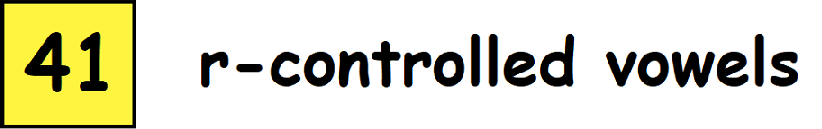
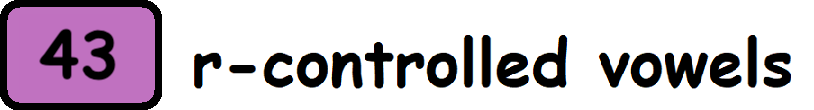
updated 3rd grade screens with new designs and added ion phoneme and updated tion phoneme in JSON

diff --git a/src/app/pages/third-categories/third-consonants-details/third-consonants-details.component.css b/src/app/pages/third-categories/third-consonants-details/third-consonants-details.component.css
@@ -1,53 +1,92 @@
 #main-body {
-    width: 169.7vh;
-    height: 0vh;
-    padding-left: 40vh;
-    position: relative;
-  }
-  
-  #background {
-      background-color: #FFFFFF !important;
-      background: url('../../../../assets/img/backgrounds/third_consonants_details.png') no-repeat scroll transparent;
-      background-position: 18vh;
-      background-size: 183vh;
-  }
-  
-  /* Second Categories */
-  #blend-begin {
-      background: url('../../../../assets/img/buttons/third_blend_begin.png') no-repeat scroll transparent;
-      background-size: 80vh;
-      margin-top: 4vh;
-      cursor: pointer;
-      width: 79vh;
-  }
-  #blend-end {
+  width: 169.7vh;
+  height: 0vh;
+  padding-left: 40vh;
+  position: relative;
+}
+
+#background {
+    background-color: #FFFFFF !important;
+    background: url('../../../../assets/img/backgrounds/second_consonants_details.png') no-repeat scroll transparent;
+    background-position: 19vh 2vh;
+    background-size: 169vh;
+}
+
+/* Phonics Categories */
+#sound-begin {
+    background: url('../../../../assets/img/buttons/third_sound_begin.png') no-repeat scroll transparent;
+    background-size: 65vh;
+    margin: 17.5vh 0vh 0vh -6vh;
+    height: 13.5vh;
+    cursor: pointer;
+    width: 63vh;
+}
+#sound-end {
+    background: url('../../../../assets/img/buttons/third_sound_end.png') no-repeat scroll transparent;
+    background-size: 55vh;
+    margin: 17.5vh 0vh 0vh 33vh;
+    cursor: pointer;
+    height: 13.5vh;
+    width: 54vh;
+}
+#cg {
+    background: url('../../../../assets/img/buttons/third_cg.png') no-repeat scroll transparent;
+    background-size: 80vh;
+    cursor: pointer;
+    width: 78vh;
+}
+#blend-begin {
+    background: url('../../../../assets/img/buttons/third_blend_begin.png') no-repeat scroll transparent;
+    background-size: 61vh;
+    cursor: pointer;
+    width: 59vh;
+}
+#blend-end {
     background: url('../../../../assets/img/buttons/third_blend_end.png') no-repeat scroll transparent;
-    background-size: 71vh;
-    width: 69vh;
+    background-size: 50vh;
+    margin-left: 37vh;
     cursor: pointer;
-  }
-  #digraph-begin {
-    background: url('../../../../assets/img/buttons/third_digraph_begin.png') no-repeat scroll transparent;
-    background-size: 104vh;
-    margin-left: 17vh;
+    width: 49vh;
+}
+#blend-three {
+    background: url('../../../../assets/img/buttons/third_blend_3.png') no-repeat scroll transparent;
+    background-size: 60vh;
     cursor: pointer;
-    width: 101vh;
-  }
-  #digraph-end {
-    background: url('../../../../assets/img/buttons/third_digraph_end.png') no-repeat scroll transparent;
-    background-size: 95vh;
-    cursor: pointer;
-    width: 92vh;
-  }
+    width: 58vh;
+}
+#silent {
+  background: url('../../../../assets/img/buttons/third_silent.png') no-repeat scroll transparent;
+  background-size: 29vh;
+  margin-left: 38vh;
+  cursor: pointer;
+  width: 28vh;
+}
+#digraph-begin {
+  background: url('../../../../assets/img/buttons/third_digraph_begin.png') no-repeat scroll transparent;
+  background-size: 91.5vh;
+  cursor: pointer;
+  width: 79vh;
+}
+#digraph-end {
+  background: url('../../../../assets/img/buttons/third_digraph_end.png') no-repeat scroll transparent;
+  background-size: 73vh;
+  display: block;
+  cursor: pointer;
+  width: 71vh;
+}
 
-  .column {
-    padding-top: 12vh;
-  }
+.category_button {
+    height: 10vh;
+    margin: 1.5vh 0vh 0vh -5vh;
+    border: none;
+}
 
-  .category_button {
-      margin: 5vh 0vh 0vh 16vh;
-      height: 14.5vh;
-      border: none;
-      display: inherit;
-  }
-  
+.column {
+    padding-top: 2.5vh;
+}
+/* Clear floats after the columns */
+.column:after {
+  content: "";
+  display: table;
+  clear: both;
+}

diff --git a/src/app/pages/third-categories/third-vowels-details/third-vowels-details.component.css b/src/app/pages/third-categories/third-vowels-details/third-vowels-details.component.css
@@ -8,62 +8,64 @@
 #background {
     background-color: #FFFFFF !important;
     background: url('../../../../assets/img/backgrounds/third_vowels_details.png') no-repeat scroll transparent;
-    background-position: 10vh;
-    background-size: 200vh;
+    background-position: 14vh 2vh;
+    background-size: 173vh;
 }
 
 /* Phonics Categories */
 #short {
     background: url('../../../../assets/img/buttons/third_vowels_short.png') no-repeat scroll transparent;
-    background-size: 38.5vh;
-    margin-top: 18vh;
+    background-size: 34vh;
+    margin-top: 17vh;
     cursor: pointer;
-    width: 36vh;
+    width: 32vh;
 }
 #long {
     background: url('../../../../assets/img/buttons/third_vowels_long.png') no-repeat scroll transparent;
+    background-size: 30vh;
+    margin: 17vh 0vh 0vh 7vh;
+    cursor: pointer;
+    width: 28vh;
+}
+#schwa {
+    background: url('../../../../assets/img/buttons/third_vowels_schwa.png') no-repeat scroll transparent;
+    background-size: 41vh;
+    margin-left: 3vh;
+    cursor: pointer;
+    width: 39vh;
+}
+#pairs {
+    background: url('../../../../assets/img/buttons/third_vowels_pairs.png') no-repeat scroll transparent;
     background-size: 33vh;
     cursor: pointer;
     width: 31vh;
 }
-#schwa {
-    background: url('../../../../assets/img/buttons/third_vowels_schwa.png') no-repeat scroll transparent;
-    background-size: 43vh;
-    cursor: pointer;
-    width: 41vh;
-}
-#pairs {
-    background: url('../../../../assets/img/buttons/third_vowels_pairs.png') no-repeat scroll transparent;
-    background-size: 37vh;
-    margin: 18vh 0vh 0vh 8.5vh;
-    cursor: pointer;
-    width: 35vh;
-}
 #y {
     background: url('../../../../assets/img/buttons/third_vowels_y.png') no-repeat scroll transparent;
-    background-size: 49vh;
+    background-size: 55.5vh;
+    margin-left: 8vh;
     cursor: pointer;
-    margin-left: 13.5vh;
-    width: 48vh;
+    width: 54vh;
 }
 #e {
     background: url('../../../../assets/img/buttons/third_vowels_e.png') no-repeat scroll transparent;
     background-size: 44vh;
+    margin-left: 62vh;
     cursor: pointer;
     width: 43vh;
-    margin-left: 4vh;
+}
+#r {
+    background: url('../../../../assets/img/buttons/third_vowels_r.png') no-repeat scroll transparent;
+    background-size: 38vh;
+    cursor: pointer;
+    width: 36vh;
 }
 
 .category_button {
     width: 39vh;
     height: 15.7vh;
-    margin: 5vh 0vh 0vh 9vh;
+    margin: 4vh 0vh 0vh 23vh;
     border: none;
-}
-
-.row {
-  float: left;
-  margin-left: 3vh;
 }
 
 .column {

diff --git a/src/app/pages/third-categories/third-consonants-details/third-consonants-details.component.html b/src/app/pages/third-categories/third-consonants-details/third-consonants-details.component.html
@@ -1,10 +1,21 @@
 <div id='background'>
     <div id='main-body'>
         <div class='column'>
+            <div class='row'>
+                <button mat-icon-button class='category_button' id='sound-begin' (mouseenter)='playAudio($event)' [routerLink]="['/list-select']" [queryParams]="{'grade' : '3rd', 'list': 'C-begin'}"></button>
+                <button mat-icon-button class='category_button' id='sound-end' (mouseenter)='playAudio($event)' [routerLink]='["/list-select"]' [queryParams]="{'grade' : '3rd', 'list': 'C-end'}"></button>
+            </div>
+            <button mat-icon-button class='category_button' id='cg' (mouseenter)='playAudio($event)' [routerLink]='["/list-select"]' [queryParams]="{'grade' : '3rd', 'list': 'CG'}"></button>
+            <div class='row'>
                 <button mat-icon-button class='category_button' id='blend-begin' (mouseenter)='playAudio($event)' [routerLink]="['/list-select']" [queryParams]="{'grade' : '3rd', 'list': 'CB-begin'}"></button>
                 <button mat-icon-button class='category_button' id='blend-end' (mouseenter)='playAudio($event)' [routerLink]='["/list-select"]' [queryParams]="{'grade' : '3rd', 'list': 'CB-end'}"></button>
-                <button mat-icon-button class='category_button' id='digraph-begin' (mouseenter)='playAudio($event)' [routerLink]='["/list-select"]' [queryParams]="{'grade' : '3rd', 'list': 'CD-begin'}"></button>
-                <button mat-icon-button class='category_button' id='digraph-end' (mouseenter)='playAudio($event)' [routerLink]='["/list-select"]' [queryParams]="{'grade' : '3rd', 'list': 'CD-end'}"></button>
+            </div>
+            <div class='row'>
+                <button mat-icon-button class='category_button' id='blend-three' (mouseenter)='playAudio($event)' [routerLink]='["/list-select"]' [queryParams]="{'grade' : '3rd', 'list': 'CB-3'}"></button>
+                <button mat-icon-button class='category_button' id='silent' (mouseenter)='playAudio($event)' [routerLink]='["/list-select"]' [queryParams]="{'grade' : '3rd', 'list': 'V-long'}"></button>
+            </div>
+            <button mat-icon-button class='category_button' id='digraph-begin' (mouseenter)='playAudio($event)' [routerLink]='["/list-select"]' [queryParams]="{'grade' : '3rd', 'list': 'CD-begin'}"></button>
+            <button mat-icon-button class='category_button' id='digraph-end' (mouseenter)='playAudio($event)' [routerLink]='["/list-select"]' [queryParams]="{'grade' : '3rd', 'list': 'CD-end'}"></button>
         </div>
     </div>
 

diff --git a/src/app/pages/third-categories/third-vowels-details/third-vowels-details.component.html b/src/app/pages/third-categories/third-vowels-details/third-vowels-details.component.html
@@ -3,16 +3,17 @@
         <div class='column'>
             <div class='row'>
                 <button mat-icon-button class='category_button' id='short' (mouseenter)='playAudio($event)' [routerLink]="['/list-select']" [queryParams]="{'grade' : '3rd', 'list': 'V-short'}"></button>
-                <button mat-icon-button class='category_button' id='pairs' (mouseenter)='playAudio($event)' [routerLink]='["/list-select"]' [queryParams]="{'grade' : '3rd', 'list': 'VP'}"></button>
+                <button mat-icon-button class='category_button' id='long' (mouseenter)='playAudio($event)' [routerLink]='["/list-select"]' [queryParams]="{'grade' : '3rd', 'list': 'V-long'}"></button>
             </div>
             <div class='row'>
-                <button mat-icon-button class='category_button' id='long' (mouseenter)='playAudio($event)' [routerLink]='["/list-select"]' [queryParams]="{'grade' : '3rd', 'list': 'V-long'}"></button>
+                <button mat-icon-button class='category_button' id='pairs' (mouseenter)='playAudio($event)' [routerLink]='["/list-select"]' [queryParams]="{'grade' : '3rd', 'list': 'VP'}"></button>
                 <button mat-icon-button class='category_button' id='y' (mouseenter)='playAudio($event)' [routerLink]='["/list-select"]' [queryParams]="{'grade' : '3rd', 'list': 'Y'}"></button>
             </div>
             <div class='row'>
+                <button mat-icon-button class='category_button' id='r' (mouseenter)='playAudio($event)' [routerLink]='["/list-select"]' [queryParams]="{'grade' : '3rd', 'list': 'R'}"></button>
                 <button mat-icon-button class='category_button' id='schwa' (mouseenter)='playAudio($event)' [routerLink]='["/list-select"]' [queryParams]="{'grade' : '3rd', 'list': 'V-schwa'}"></button>
-                <button mat-icon-button class='category_button' id='e' (mouseenter)='playAudio($event)' [routerLink]='["/list-select"]' [queryParams]="{'grade' : '3rd', 'list': 'E'}"></button>
             </div>
+            <button mat-icon-button class='category_button' id='e' (mouseenter)='playAudio($event)' [routerLink]='["/list-select"]' [queryParams]="{'grade' : '3rd', 'list': 'E'}"></button>
         </div>
     </div>
 

diff --git a/src/app/pages/second-categories/second-consonants-details/second-consonants-details.component.html b/src/app/pages/second-categories/second-consonants-details/second-consonants-details.component.html
@@ -12,7 +12,7 @@
             </div>
             <div class='row'>
                 <button mat-icon-button class='category_button' id='blend-three' (mouseenter)='playAudio($event)' [routerLink]='["/list-select"]' [queryParams]="{'grade' : '2nd', 'list': 'CB-3'}"></button>
-                <button mat-icon-button class='category_button' id='silent' (mouseenter)='playAudio($event)' [routerLink]='["/list-select"]' [queryParams]="{'grade' : '3rd', 'list': 'V-long'}"></button>
+                <button mat-icon-button class='category_button' id='silent' (mouseenter)='playAudio($event)' [routerLink]='["/list-select"]' [queryParams]="{'grade' : '2nd', 'list': 'V-long'}"></button>
             </div>
             <button mat-icon-button class='category_button' id='digraph-begin' (mouseenter)='playAudio($event)' [routerLink]='["/list-select"]' [queryParams]="{'grade' : '2nd', 'list': 'CD-begin'}"></button>
             <button mat-icon-button class='category_button' id='digraph-end' (mouseenter)='playAudio($event)' [routerLink]='["/list-select"]' [queryParams]="{'grade' : '2nd', 'list': 'CD-end'}"></button>

diff --git a/src/app/pages/third-categories/third-vowelconsonants-details/third-vowelconsonants-details.component.css b/src/app/pages/third-categories/third-vowelconsonants-details/third-vowelconsonants-details.component.css
@@ -38,7 +38,7 @@
   }
 
   .category_button {
-      margin: 13vh 0vh 0vh 40vh;
+      margin: 14.5vh 0vh 0vh 40vh;
       height: 14vh;
       border: none;
       display: inherit;
